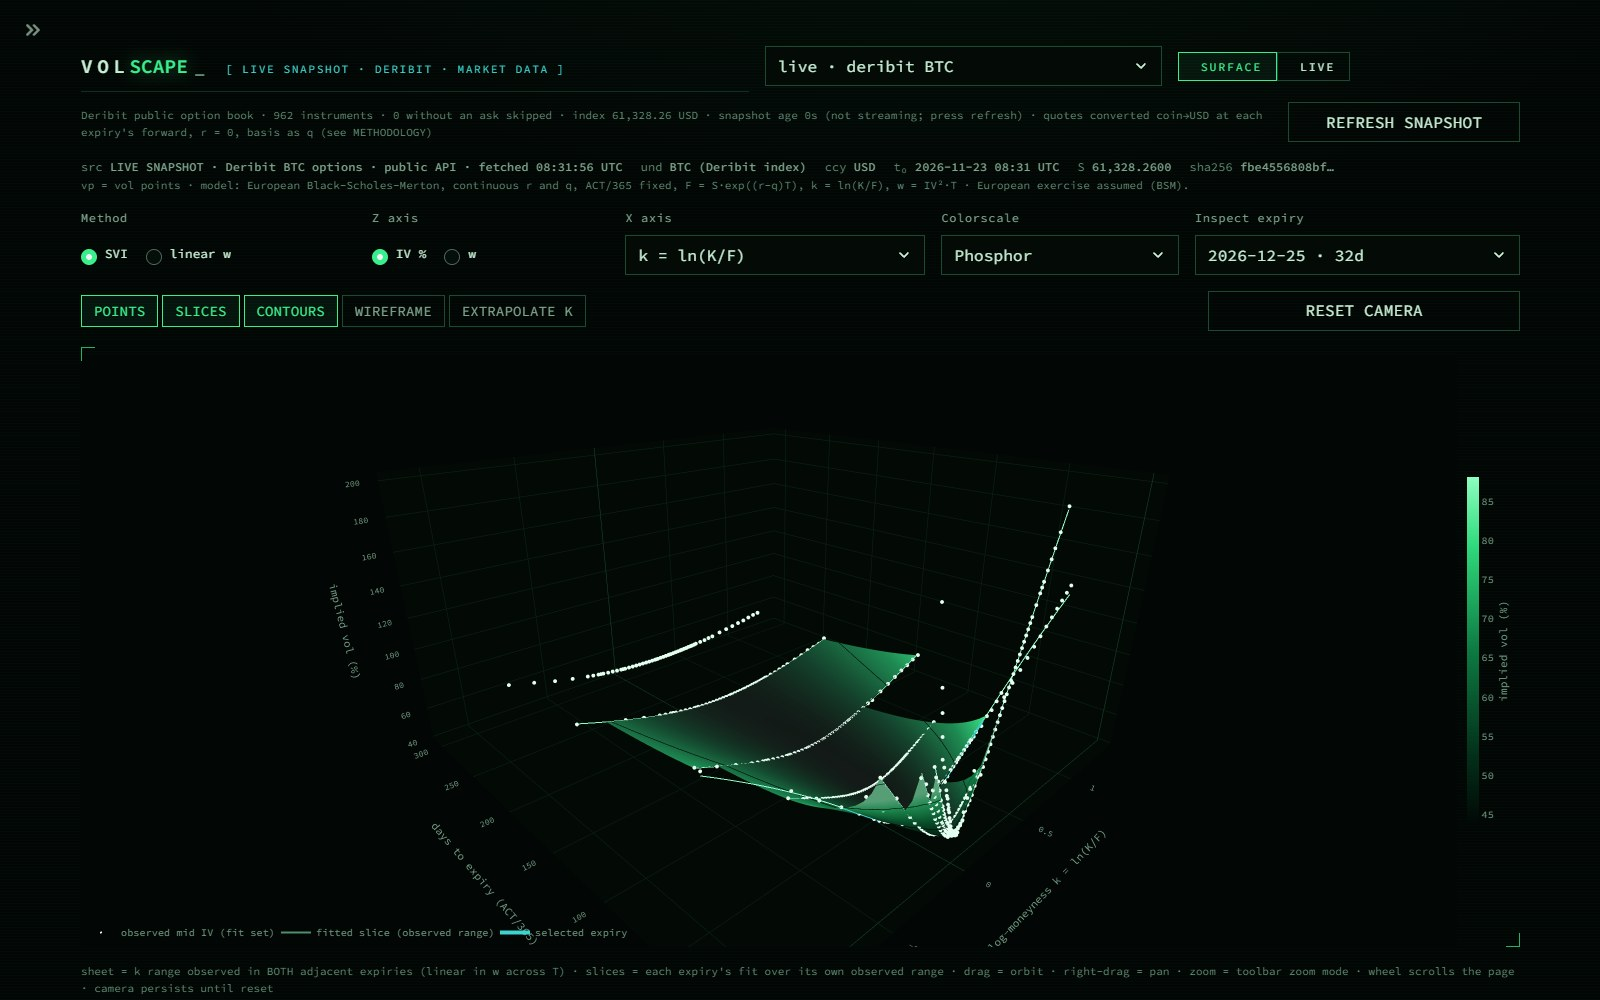
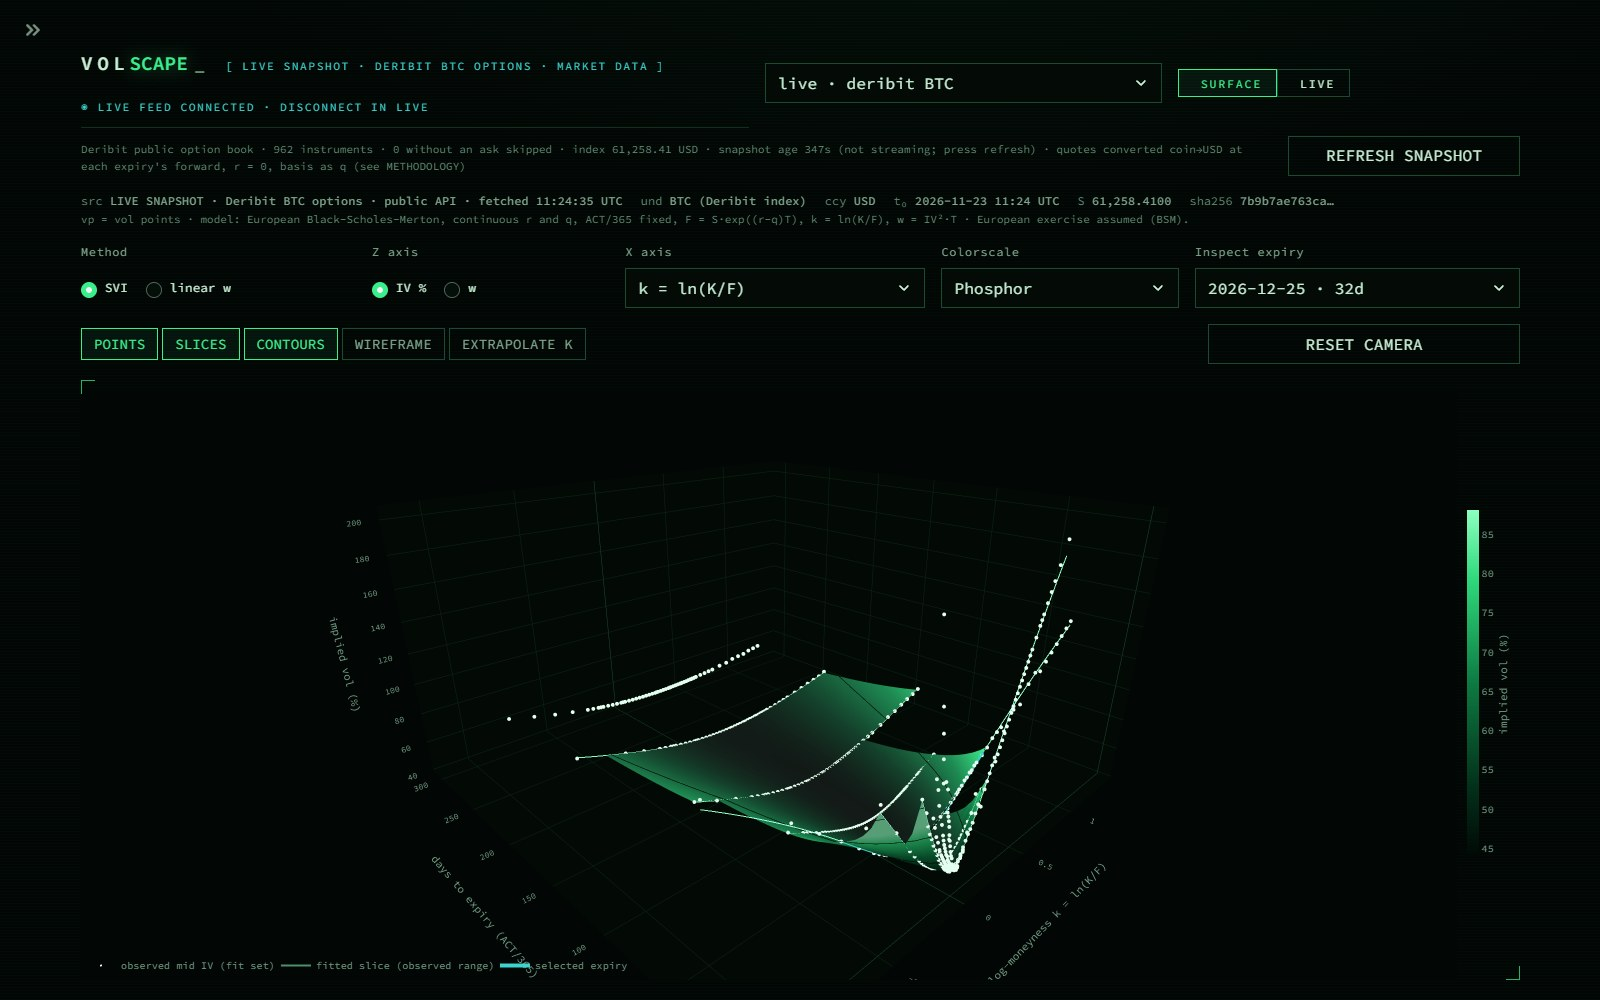
Screenshots: highlights only (surface, live Deribit, live crypto panel, density)

diff --git a/scripts/capture_screenshots.py b/scripts/capture_screenshots.py
@@ -140,39 +140,41 @@ async def run(live: bool):
             await c.wait_for("document.querySelectorAll('.js-plotly-plot').length >= 3", 120)
             await asyncio.sleep(4)
             await c.shot("workstation_surface.jpg")
-            await c.scroll_to_text("Smile axis", -150)
-            await c.shot("smile_term_calibration.jpg")
-            for tab, name, anchor in (("Arbitrage Diagnostics", "arbitrage_diagnostics.jpg", "Finite-grid checks"),
-                                      ("Risk Playground", "risk_playground.jpg", "LEGS"),
-                                      ("Quote Quality", "quote_quality.jpg", "input rows")):
-                await c.click_text(tab)
-                await asyncio.sleep(2)
-                await c.scroll_to_text(anchor, -60)
-                await c.shot(name, 3)
+            await c.click_text("Arbitrage Diagnostics")
+            await asyncio.sleep(2)
+            await c.scroll_to_text("Risk-neutral density waterfall", -40)
+            await c.shot("density_waterfall.jpg", 3)
             if live:
                 await c.js("window.scrollTo(0,0)")
-                await c.click_text("Calibration")
                 await c.pick_option("Dataset", "live · deribit BTC")
                 await c.wait_for("document.body.innerText.toLowerCase().includes('live snapshot')", 90)
-                await c.wait_for("document.querySelectorAll('.js-plotly-plot').length >= 3", 90)
-                await asyncio.sleep(5)
+                await asyncio.sleep(6)
                 await c.js("window.scrollTo(0,0)")
                 await c.shot("live_deribit_surface.jpg", 2)
-                await c.pick_option("Dataset", "synthetic · demo")
-                await asyncio.sleep(6)
                 await c.click_text("LIVE", "label, p")
-                await c.wait_for("document.body.innerText.includes('Not connected') || document.body.innerText.includes('feed LIVE')", 30)
-                if await c.js("document.body.innerText.includes('Not connected')"):
-                    await c.click_text("Connect", "button, p")
-                await c.wait_for("document.body.innerText.includes('feed LIVE')", 40)
-                await asyncio.sleep(20)   # let 1s closes, tape and flow accumulate from the real feed
-                for _ in range(40):       # the 1 s fragment re-mounts tables; wait for a painted frame
-                    if await c.painted(0):
-                        break
-                    await asyncio.sleep(0.25)
-                await c.shot("live_orderflow.jpg", 0)
-                await c.click_text("Disconnect", "button, p")
+                await c.wait_for("document.body.innerText.includes('Not connected') || document.body.innerText.includes('Disconnect') || document.body.innerText.includes('DISCONNECT')", 30)
                 await asyncio.sleep(2)
+                if await c.js("document.body.innerText.includes('Not connected')"):
+                    await c.js("[...document.querySelectorAll('button')].find(b=>b.innerText.trim().toLowerCase()==='connect').click(); 1")
+                await c.wait_for("[...document.querySelectorAll('iframe')].some(f => (f.srcdoc || '').includes('landscape'))", 60)
+                await asyncio.sleep(30)          # 24h history + book samples accumulate from the real feed
+                await c.js("window.scrollTo(0, 230)")
+                await c.shot("live_crypto_panel.jpg", 2)
+                await c.js("window.scrollTo(0, 620)")
+                await c.shot("live_orderbook_3d.jpg", 1)
+                try:
+                    await c.click_text("Disconnect", "button, p")
+                except RuntimeError:
+                    pass
+                await asyncio.sleep(2)
+                await c.click_text("stocks & indices · delayed", "label, p")
+                await asyncio.sleep(2)
+                await c.click_text("Load delayed day chart (connects to Yahoo Finance)", "button, p")
+                await asyncio.sleep(4)
+                await c.pick_option("Stock / index", "Reliance Industries · INDIA")
+                await c.wait_for("document.querySelectorAll('.js-plotly-plot').length >= 2", 60)
+                await c.js("const p=[...document.querySelectorAll('.js-plotly-plot')].pop(); p.scrollIntoView({block:'center'}); 1")
+                await c.shot("stock_volume_3d.jpg", 6)
     finally:
         proc.terminate()
 

diff --git a/README.md b/README.md
@@ -21,19 +21,16 @@ Built with Python, NumPy, SciPy, pandas, Plotly and Streamlit. No accounts, API 
 >   *Refresh snapshot* to fetch again.
 > - **LIVE**: real spot and equity market data from Binance and Yahoo. It contains no option quotes.
 
-![SURFACE workspace](docs/screenshots/workstation_surface.jpg)
+![3D implied-vol surface](docs/screenshots/workstation_surface.jpg)
 
-| Live Deribit BTC surface | LIVE order flow |
+| Live BTC option surface (Deribit) | Live crypto: 24h candles + 3D order book |
 |---|---|
-| ![](docs/screenshots/live_deribit_surface.jpg) | ![](docs/screenshots/live_orderflow.jpg) |
-| **Smile · term structure · readouts** | **Arbitrage diagnostics** |
-| ![](docs/screenshots/smile_term_calibration.jpg) | ![](docs/screenshots/arbitrage_diagnostics.jpg) |
-| **Risk playground** | **Quote quality** |
-| ![](docs/screenshots/risk_playground.jpg) | ![](docs/screenshots/quote_quality.jpg) |
+| ![](docs/screenshots/live_deribit_surface.jpg) | ![](docs/screenshots/live_crypto_panel.jpg) |
 
-*All screenshots are real captures of the running app at 1600×1000, made with
-`python scripts/capture_screenshots.py --live` (headless Edge/Chrome via DevTools). The synthetic views
-use the bundled demo. The live views show the public Deribit and Binance data at the moment of capture.*
+![Risk-neutral density waterfall](docs/screenshots/density_waterfall.jpg)
+
+*Real captures of the running app (`python scripts/capture_screenshots.py --live`). Live views show public
+Deribit/Binance data at capture time; the surface and density use the bundled synthetic demo.*
 
 ## 3D views
 Every 3D view encodes real dimensions of the data; none is decorative.
